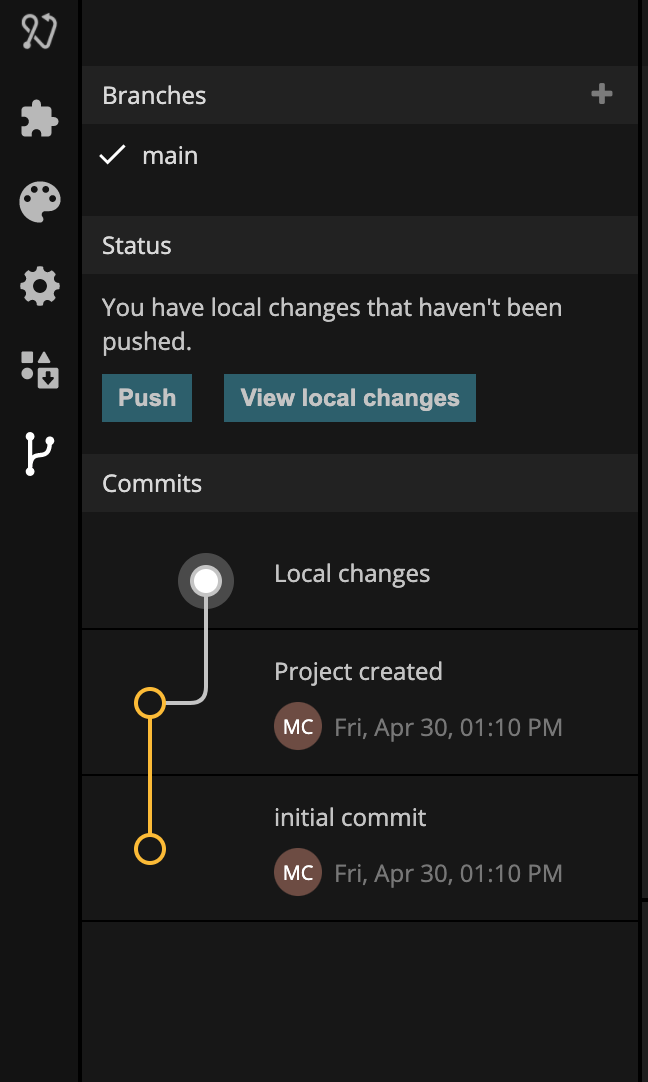
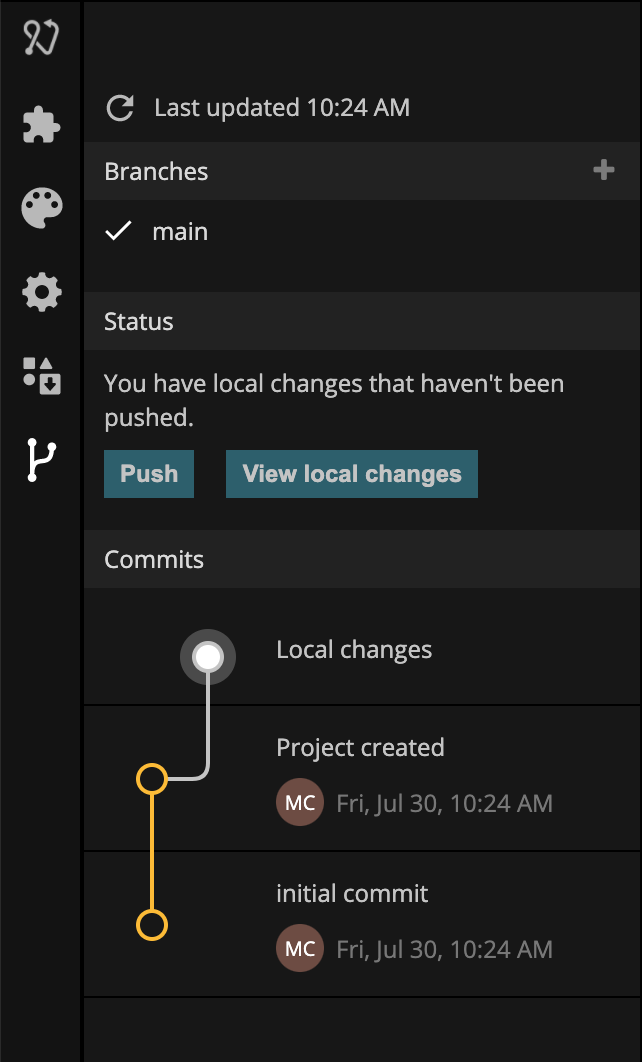
Added 2.3.1 changes

diff --git a/2.3/nodes/visual/text.md b/2.3/nodes/visual/text.md
@@ -89,26 +89,31 @@ The size of the font of the text to be displayed, in pixels.
 The color of the text to be displayed.
 
 **Letter Spacing**  
-The distance between letters in the string to be displayed. Uses pixels as the unit.
+The distance between letters in the string to be displayed. Can be specified in the following units:
+- `px`: Pixels. This is CSS pixels, so one pixel will be two physical pixels on a retina display
+- `em`: Relative to the font size. 1em is the same as the current font size
 
 **Line Height**  
-The line height of the string, if the string is on multiple lines. Uses pixels as the unit.
+The line height of the string, if the string is on multiple lines. Can be specified in the following units:
+- No unit: Relative to the current font size. Preferred way to set line height
+- `px`: Pixels. This is CSS pixels, so one pixel will be two physical pixels on a retina display
+- `%`: Percentage
 
 **Word Break**  
 Control where line breaks are allowed
 - Normal: Break on spaces and other whitespace characters
 - Break All: Allow line breaks between any two characters, including inside words
 
+**Case**  
+Control how to capitalize the text
+- _None_ - Characters are unmodified 
+- _Uppercase_ - All characters will be uppercase
+- _Lowercase_ - All characters will be lowercase
+- _Capitalize_ - The first letter of each word will be converted to uppercase
+
 ### Style
 
-**Opacity**  
-The opacity of the node. 0 is completely transparent and invisible. 1 is completely solid and opaque.
-
-**Visible**  
-Toggle the visibility of this node on and off.
-
-**zIndex**  
-The depth index for this node, this can be any number.
+[filename](./visibility-styles.md ':include')
 
 ### Placement
 

diff --git a/2.4/nodes/visual/text.md b/2.4/nodes/visual/text.md
@@ -89,26 +89,31 @@ The size of the font of the text to be displayed, in pixels.
 The color of the text to be displayed.
 
 **Letter Spacing**  
-The distance between letters in the string to be displayed. Uses pixels as the unit.
+The distance between letters in the string to be displayed. Can be specified in the following units:
+- `px`: Pixels. This is CSS pixels, so one pixel will be two physical pixels on a retina display
+- `em`: Relative to the font size. 1em is the same as the current font size
 
 **Line Height**  
-The line height of the string, if the string is on multiple lines. Uses pixels as the unit.
+The line height of the string, if the string is on multiple lines. Can be specified in the following units:
+- No unit: Relative to the current font size. Preferred way to set line height
+- `px`: Pixels. This is CSS pixels, so one pixel will be two physical pixels on a retina display
+- `%`: Percentage
 
 **Word Break**  
 Control where line breaks are allowed
 - Normal: Break on spaces and other whitespace characters
 - Break All: Allow line breaks between any two characters, including inside words
 
+**Case**  
+Control how to capitalize the text
+- _None_ - Characters are unmodified 
+- _Uppercase_ - All characters will be uppercase
+- _Lowercase_ - All characters will be lowercase
+- _Capitalize_ - The first letter of each word will be converted to uppercase
+
 ### Style
 
-**Opacity**  
-The opacity of the node. 0 is completely transparent and invisible. 1 is completely solid and opaque.
-
-**Visible**  
-Toggle the visibility of this node on and off.
-
-**zIndex**  
-The depth index for this node, this can be any number.
+[filename](./visibility-styles.md ':include')
 
 ### Placement
 

diff --git a/2.3/nodes/visual/image.md b/2.3/nodes/visual/image.md
@@ -80,14 +80,24 @@ Use this property to specify different image sources for different resolutions m
 
 ### Style
 
-**Opacity**  
-The opacity of the node. 0 is completely transparent and invisible. 1 is completely solid and opaque.
+[filename](./visibility-styles.md ':include')
 
-**Visible**  
-Toggle the visibility of this node on and off.
+**Border Radius**  
+Specifies the border radius if this node is set to have a border.
 
-**zIndex**  
-The depth index for this node, this can be any number.
+**Border Style**  
+Specifies whether this node should have a border and what it should look like.
+
+- _None_ - No border.
+- _Solid_ - Solid border.
+- _Dotted_ - Dotted border.
+- _Dashed_ - Dashed border.
+
+**Border Width**  
+The width of the border. Only available it **Border Style** is set to have a border.
+
+**Border Color**  
+The color of the border. Only available it **Border Style** is set to have a border.
 
 ### Other
 

diff --git a/2.4/nodes/visual/image.md b/2.4/nodes/visual/image.md
@@ -80,14 +80,24 @@ Use this property to specify different image sources for different resolutions m
 
 ### Style
 
-**Opacity**  
-The opacity of the node. 0 is completely transparent and invisible. 1 is completely solid and opaque.
+[filename](./visibility-styles.md ':include')
 
-**Visible**  
-Toggle the visibility of this node on and off.
+**Border Radius**  
+Specifies the border radius if this node is set to have a border.
 
-**zIndex**  
-The depth index for this node, this can be any number.
+**Border Style**  
+Specifies whether this node should have a border and what it should look like.
+
+- _None_ - No border.
+- _Solid_ - Solid border.
+- _Dotted_ - Dotted border.
+- _Dashed_ - Dashed border.
+
+**Border Width**  
+The width of the border. Only available it **Border Style** is set to have a border.
+
+**Border Color**  
+The color of the border. Only available it **Border Style** is set to have a border.
 
 ### Other
 

diff --git a/2.3/nodes/visual/group.md b/2.3/nodes/visual/group.md
@@ -117,8 +117,7 @@ When enabled, uses the web's native scrolling dependent on the platform. Uses cu
 
 ### Style
 
-**Opacity**  
-The opacity of this node. 0 is completely transparent and invisible. 1 is completely solid and opaque.
+[filename](./visibility-styles.md ':include')
 
 **Background Color**  
 Specifies the background color for this node.
@@ -139,12 +138,6 @@ The width of the border. Only available it **Border Style** is set to have a bor
 
 **Border Color**  
 The color of the border. Only available it **Border Style** is set to have a border.
-
-**Visible**  
-Toggle the visibility of the node on and off.
-
-**zIndex**  
-The depth index for this node, this can be any number.
 
 ### Box Shadow
 

diff --git a/2.4/nodes/visual/group.md b/2.4/nodes/visual/group.md
@@ -117,8 +117,7 @@ When enabled, uses the web's native scrolling dependent on the platform. Uses cu
 
 ### Style
 
-**Opacity**  
-The opacity of this node. 0 is completely transparent and invisible. 1 is completely solid and opaque.
+[filename](./visibility-styles.md ':include')
 
 **Background Color**  
 Specifies the background color for this node.
@@ -139,12 +138,6 @@ The width of the border. Only available it **Border Style** is set to have a bor
 
 **Border Color**  
 The color of the border. Only available it **Border Style** is set to have a border.
-
-**Visible**  
-Toggle the visibility of the node on and off.
-
-**zIndex**  
-The depth index for this node, this can be any number.
 
 ### Box Shadow
 

diff --git a/2.3/nodes/visual/visibility-styles.md b/2.3/nodes/visual/visibility-styles.md
@@ -1,6 +1,26 @@
 **Opacity**  
 The opacity of the node. 0 is completely transparent and invisible. 1 is completely solid and opaque.
 
+**Blend Mode**  
+Controls how this element should blend with the elements behind it.
+The blend mode can be set to one of the following:
+- Normal
+- Multiply
+- Screen
+- Overlay
+- Darken
+- Lighten
+- Color Dodge
+- Color Burn
+- Hard Light
+- Soft Light
+- Difference
+- Exclusion
+- Hue
+- Saturation
+- Color
+- Luminosity
+
 **Visible**  
 Toggle the visibility of this node on and off.
 

diff --git a/2.4/nodes/visual/visibility-styles.md b/2.4/nodes/visual/visibility-styles.md
@@ -1,6 +1,26 @@
 **Opacity**  
 The opacity of the node. 0 is completely transparent and invisible. 1 is completely solid and opaque.
 
+**Blend Mode**  
+Controls how this element should blend with the elements behind it.
+The blend mode can be set to one of the following:
+- Normal
+- Multiply
+- Screen
+- Overlay
+- Darken
+- Lighten
+- Color Dodge
+- Color Burn
+- Hard Light
+- Soft Light
+- Difference
+- Exclusion
+- Hue
+- Saturation
+- Color
+- Luminosity
+
 **Visible**  
 Toggle the visibility of this node on and off.
 

diff --git a/2.3/guides/version-control/version-control.md b/2.3/guides/version-control/version-control.md
@@ -35,6 +35,12 @@ After the changes are pushed you can see the new version in the version list.
 ![](after-first-push.png ':class=img-size-m')
 
 ## Pulling down changes
+Noodl automatically checks if there are any changes to pull down when the version control panel is opened.
+
+
+You can also manually check for updates by clicking the update icon
+
+![](update.png ':class=img-size-m')
 
 New version will show be displayed as dimmed items in the version list. These are versions that you haven't pulled down yet.
 

diff --git a/2.4/guides/version-control/version-control.md b/2.4/guides/version-control/version-control.md
@@ -35,6 +35,12 @@ After the changes are pushed you can see the new version in the version list.
 ![](after-first-push.png ':class=img-size-m')
 
 ## Pulling down changes
+Noodl automatically checks if there are any changes to pull down when the version control panel is opened.
+
+
+You can also manually check for updates by clicking the update icon
+
+![](update.png ':class=img-size-m')
 
 New version will show be displayed as dimmed items in the version list. These are versions that you haven't pulled down yet.
 

diff --git a/2.3/nodes/visual/text-input.md b/2.3/nodes/visual/text-input.md
@@ -126,14 +126,7 @@ The color of the border around the Text Input node. Only valid if _Border Width_
 **Border Width**  
 The width of the border around the Text Input.
 
-**Opacity**  
-The opacity of the node. 0 is completely transparent and invisible. 1 is completely solid and opaque.
-
-**Visible**  
-Toggle the visibility of this node on and off.
-
-**zIndex**  
-The depth index for this node, this can be any number.
+[filename](./visibility-styles.md ':include')
 
 ### Placement
 

diff --git a/2.4/nodes/visual/text-input.md b/2.4/nodes/visual/text-input.md
@@ -126,14 +126,7 @@ The color of the border around the Text Input node. Only valid if _Border Width_
 **Border Width**  
 The width of the border around the Text Input.
 
-**Opacity**  
-The opacity of the node. 0 is completely transparent and invisible. 1 is completely solid and opaque.
-
-**Visible**  
-Toggle the visibility of this node on and off.
-
-**zIndex**  
-The depth index for this node, this can be any number.
+[filename](./visibility-styles.md ':include')
 
 ### Placement
 
